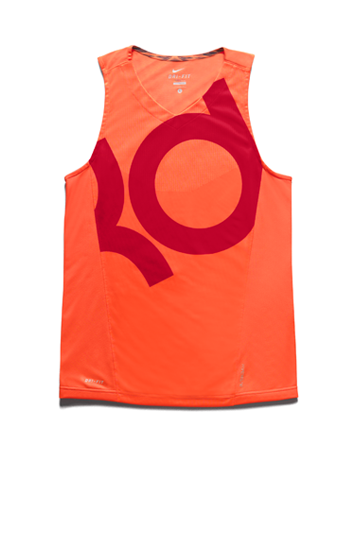
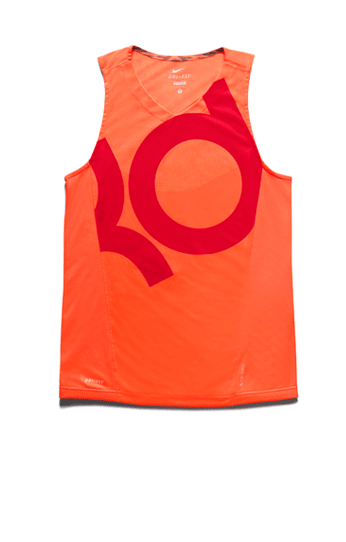
reduces filesize of images

diff --git a/source/javascripts/shoe.js b/source/javascripts/shoe.js
@@ -30,8 +30,8 @@ $(document).ready(function() {
   });
   
   $('.carousel-content').slick({
-      prevArrow:"<img class='a-left control-c prev slick-prev' src='images/shoe_story/arrow-left.png'>",
-      nextArrow:"<img class='a-right control-c next slick-next' src='images/shoe_story/arrow-right.png'>"
+      prevArrow:"<img class='a-left control-c prev slick-prev' src='images/shoe_story/arrow-left.jpg'>",
+      nextArrow:"<img class='a-right control-c next slick-next' src='images/shoe_story/arrow-right.jpg'>"
   });
  
 }); 

diff --git a/source/stylesheets/partials/desktop/_hoodie.sass b/source/stylesheets/partials/desktop/_hoodie.sass
@@ -1,5 +1,5 @@
 .main-frame-hoodie
-  background-image: url("#{$assetPath}/hoodie_story/hoodie_hero.png")
+  background-image: url("#{$assetPath}/hoodie_story/hoodie_hero.jpg")
   background-repeat: no-repeat
   background-size: 100% 100%
   width: 693px

diff --git a/source/stylesheets/partials/desktop/_shoe.sass b/source/stylesheets/partials/desktop/_shoe.sass
@@ -1,5 +1,5 @@
 .main-frame-shoe
-  background-image: url("#{$assetPath}/shoe_story/shoe_hero.png")
+  background-image: url("#{$assetPath}/shoe_story/shoe_hero.jpg")
   display: block
   background-repeat: no-repeat
   background-size: 100% 100%
